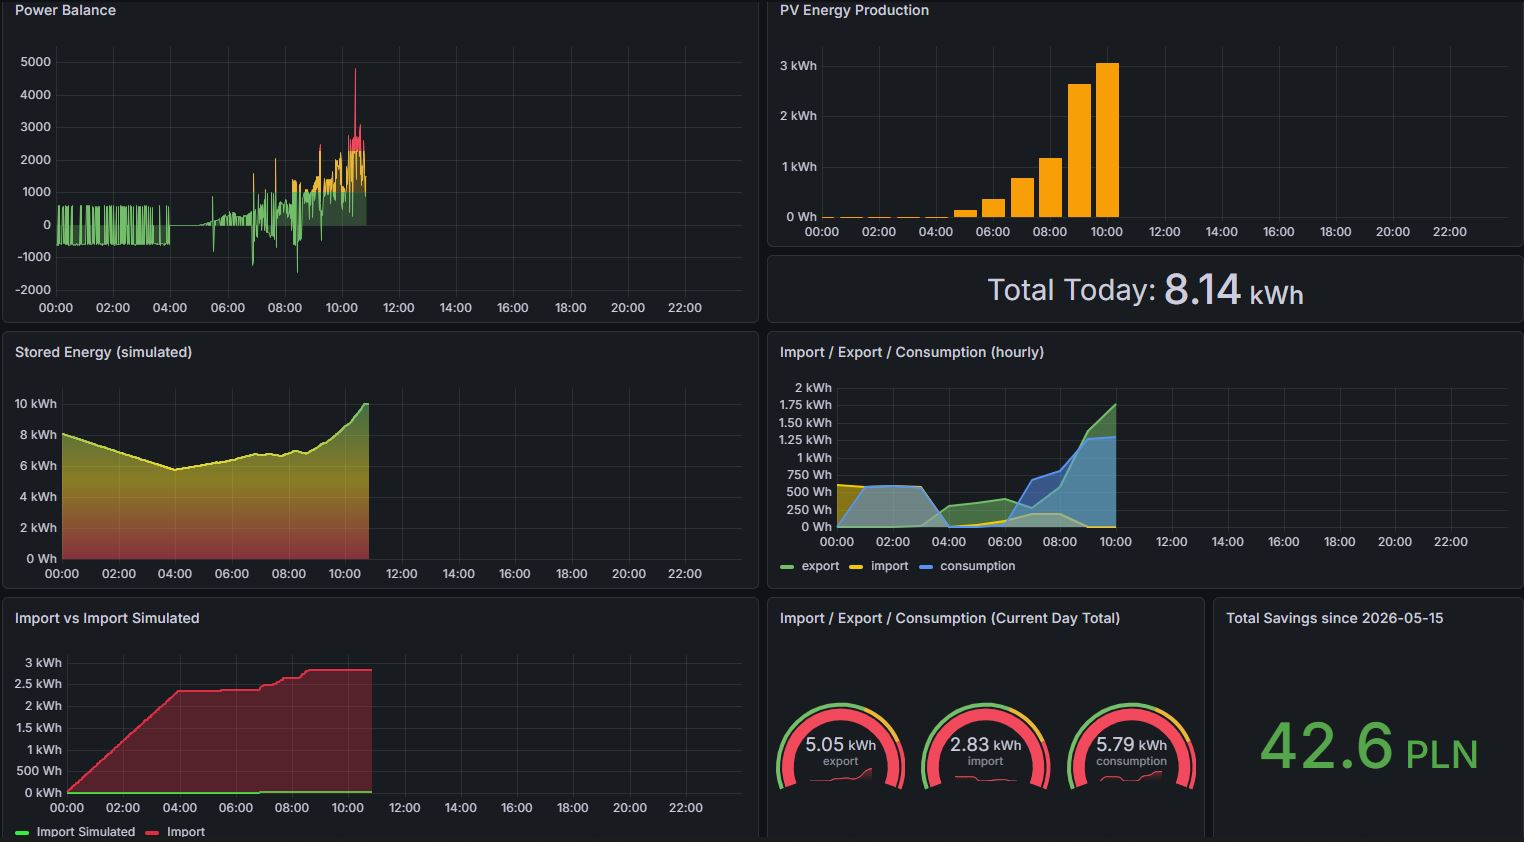
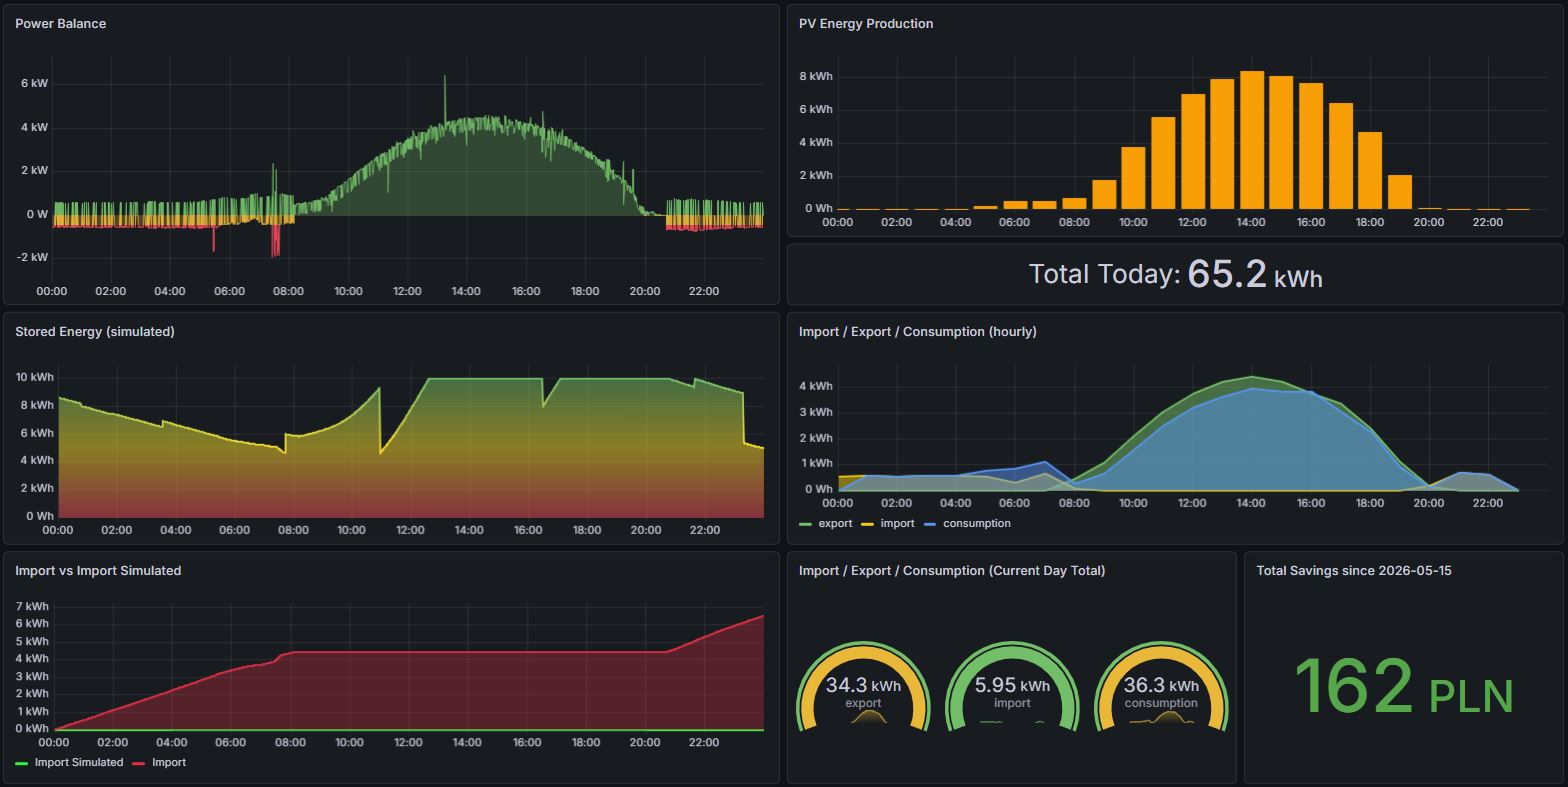
update README.md + Add img

diff --git a/README.md b/README.md
@@ -4,8 +4,6 @@
 
 End-to-end time-series data pipeline for IoT-based energy management: data ingestion, cleaning, aggregation, and analytics using InfluxDB, Grafana, and Python.
 
-<!-- DŁUGI OPIS -->
-
 The primary business objective of this project was to build a **Digital Twin** simulating a 10kWh Energy Storage System (ESS) to calculate financial ROI, long-term energy self-sufficiency, and investment payback period under the G11 tariff framework in Poland.
 
 ## 🏗 Core Architecture & Data Lineage
@@ -124,10 +122,26 @@ Energy and power-balance telemetry is retrieved from InfluxDB using the native *
 The dashboard combines:
 
 - real-time power telemetry
-- energy flow analytics
-- ESS Digital Twin simulation metrics
-- cumulative financial savings projections
+<p align="center">
+  <img src="img/power_balance.JPG" alt="EMS Dashboard if Grafana" width="80%">
+</p>
 
+- energy flow analytics
+<p align="center">
+  <img src="img/pv_production.JPG" alt="EMS Dashboard if Grafana" width="43%">
+  <img src="img/import_export_consumption.JPG" alt="EMS Dashboard if Grafana" width="55%">
+</p>
+
+- ESS Digital Twin simulation metrics
+<p align="center">
+  <img src="img/stored_energy.JPG" alt="EMS Dashboard if Grafana" width="48%">
+  <img src="img/import_import_simulated.JPG" alt="EMS Dashboard if Grafana" width="48%">
+</p>
+
+- cumulative financial savings projections
+<p align="center">
+  <img src="img/total_savings.JPG" alt="EMS Dashboard if Grafana" width="80%">
+</p>
 To enforce GitOps principles and ensure full infrastructure reproducibility (**Dashboard as Code**), the complete dashboard configuration is version-controlled and stored as a JSON definition within the `/src` directory of the repository.
 
 A publicly accessible live dashboard is available here:
@@ -135,24 +149,8 @@ A publicly accessible live dashboard is available here:
 👉 **[Grafana Cloud EMS Dashboard](https://stanzolnierczyk.grafana.net/public-dashboards/8944e607f33d4e4a9fdd7d765f767c40)**
 
 <!-- zamiast tego widoku dashboardu dodać pojedyńcze wykresy z wyjaśnieniami -->
-<p align="center">
-  <img src="img/grafana_dashboard_full.JPG" alt="EMS Dashboard if Grafana" width="90%">
-</p>
-
-<!-- DOTĄD przeczytane i poprawione opisy
- -->
 
 ---
-
-<!-- na końcu jeszcze wyzwania i to co można by zrobić lepiej:
-(wytłumaczenie, że ten pipeline działa, ale jest 'cost-optimized' i gdyby miał być wdrożony na produkcję to trzeba by dokonać kilku 'improvements')
-- poprawa jakości danych PowerBalance - średnia krocząca z ostatnich 10minut, filtrowanie 'pików'
-- retry logic dla POST request. Idealnie zastąpić MQTT który śledzi dostarczenie
-- wykonywanie skryptów Pythona na dedykowanej wirtualnej maszynie (nie Github actions), co zapewnia większą stabilność i przewidywalność wykonania
-- Cold Storage jako profesjonalny Data Lake w chmurze
-
-
- -->
 
 ## 🚀 Production Scaling, Challenges & Future Improvements
 
